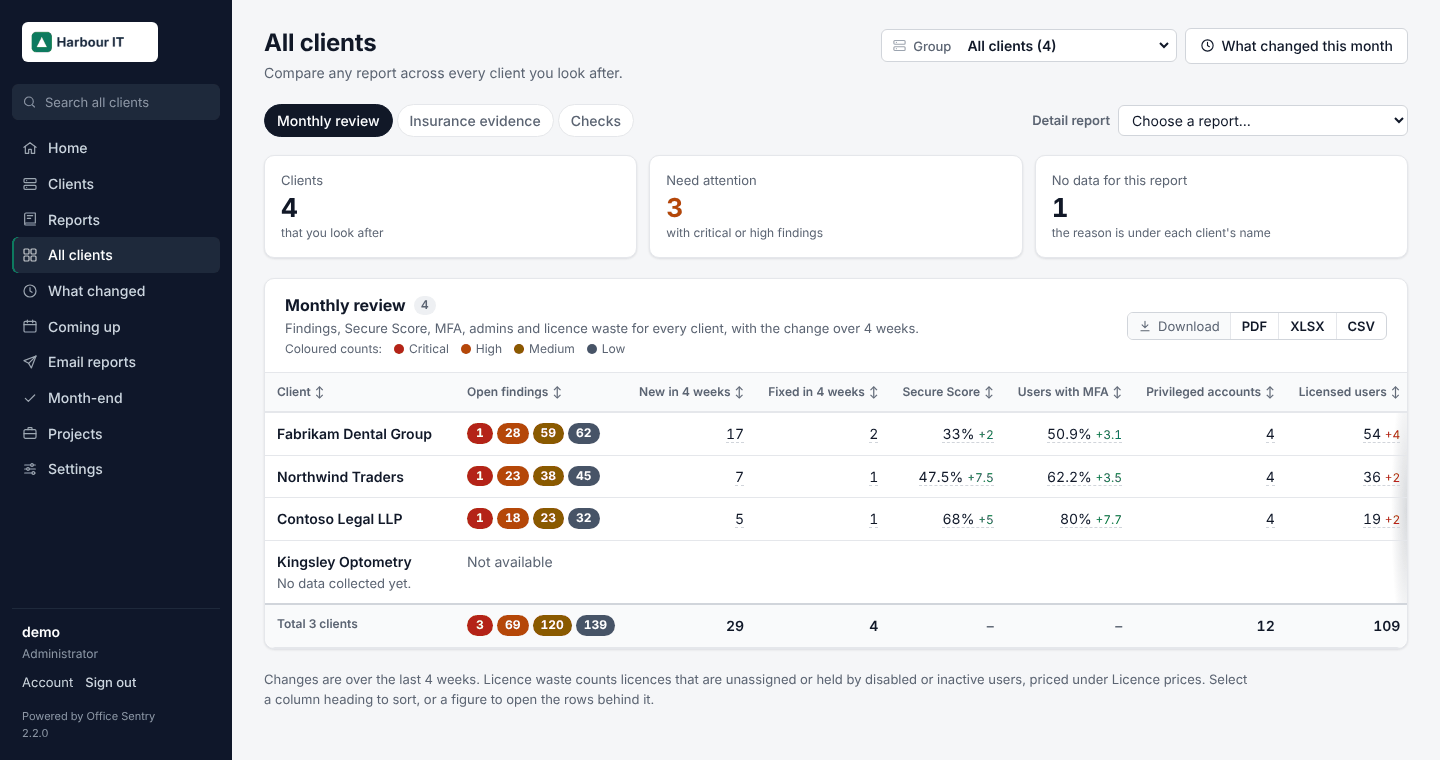
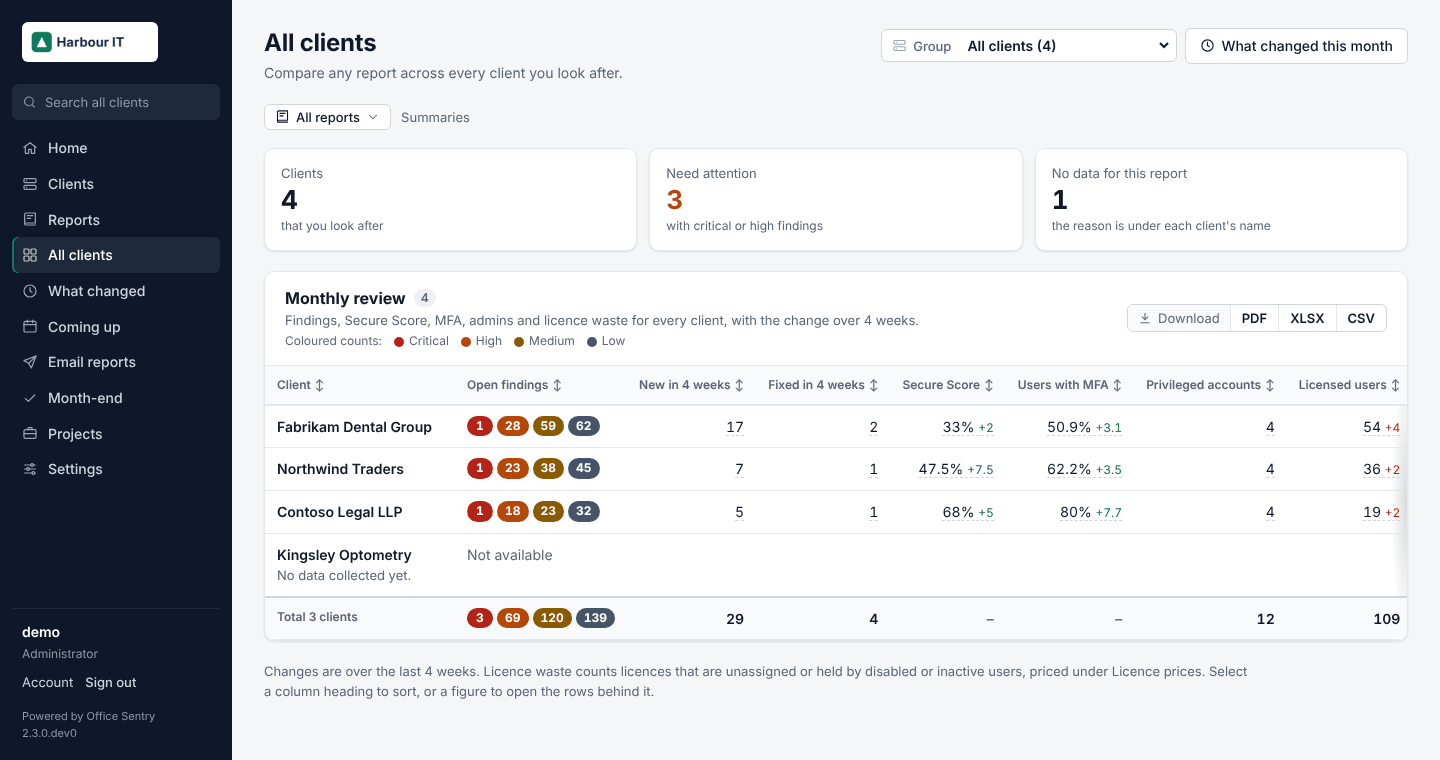
All clients opens reports from the All reports menu, and pages never scroll sideways
All clients gets the same All reports menu as a client's Reports tab (every report in columns with a
search box) instead of a drop-down list as tall as the screen, with One row per client and Every row
beside it. Hidden text inside table scroll boxes no longer widens the Checks and Projects pages, and on
phones the monthly review's buttons wrap and long addresses in History lists break. The browser tests
now fail any page wider than the window.

diff --git a/v2/officesentry/web/templates/_across.html b/v2/officesentry/web/templates/_across.html
@@ -1,8 +1,8 @@
-{#- The top of every All clients page: the summary tabs, the detail report picker, and for a detail
-    report the choice between one row per tenant and every row. key is the page's report key. -#}
+{#- The top of every All clients page: the report picker and, for a detail report, the choice between one row
+    per tenant and every row. key is the page's report key: 'review', 'evidence', 'checks' or a detail report's. -#}
 {% from "_macros.html" import icon %}
 {% from "_groups.html" import group_picker with context %}
-{% macro across_head(key, main, groups, mode='') -%}
+{% macro across_head(key, main, mode='') -%}
 <div class="page-head">
   <div>
     <h1>All clients</h1>
@@ -11,27 +11,74 @@
   <div class="actions">{{ group_picker() }}<a class="btn" href="{{ url_for('across.changes') }}">{{ icon('clock') }} What changed this month</a></div>
 </div>
 
-<div class="report-picker">
-  <nav class="subtabs m0" aria-label="Report">
-    {% for k, title in main %}
-    <a href="{{ url_for('across.rollup', key=k) }}"{% if k == key %} class="active" aria-current="page"{% endif %}>{{ title }}</a>
-    {% endfor %}
-    <a href="{{ url_for('across.checks') }}"{% if key == 'checks' %} class="active" aria-current="page"{% endif %} title="Every check's result for every client">Checks</a>
-  </nav>
-  <form method="get" action="{{ url_for('across.index') }}" class="picker-form" id="detail-picker" data-autosubmit>
-    {% if mode == 'rows' %}<input type="hidden" name="mode" value="rows">{% endif %}
-    <label for="detail-key" class="inline-label">Detail report</label>
-    <select id="detail-key" name="key">
-      <option value=""{% if key in ('review', 'evidence', 'checks') %} selected{% endif %} disabled>Choose a report…</option>
-      {% for gr in groups %}<optgroup label="{{ gr.title }}">{% for k, title, desc in gr.reports %}<option value="{{ k }}"{% if k == key %} selected{% endif %}>{{ title }}</option>{% endfor %}</optgroup>{% endfor %}
-    </select>
-    <noscript><button class="btn sm">Show</button></noscript>
-  </form>
-</div>
+<div class="across-bar">
+{{ across_picker(key, main, mode) }}
 {% if mode %}
 <nav class="subtabs across-mode" aria-label="Layout">
   <a href="{{ url_for('across.rollup', key=key) }}"{% if mode == 'tenants' %} class="active" aria-current="page"{% endif %} title="Headline figures, one row per client">One row per client</a>
   <a href="{{ url_for('across.rows_index', key=key) }}"{% if mode == 'rows' %} class="active" aria-current="page"{% endif %} title="Every row of a table from every client, to filter and download">Every row</a>
 </nav>
 {% endif %}
+</div>
+{%- endmacro %}
+
+{#- The same picker as a client's Reports tab (report_picker in _macros.html): on laptops an "All reports"
+    menu, every report in columns with a search box and the open report's area beside it; a select on phones.
+    main is the summaries this person may open; in Every row (mode 'rows') a detail report opens there too. -#}
+{% macro across_picker(key, main, mode) -%}
+{% set tips = {'review': 'Findings, Secure Score, MFA, admins and licence waste for every client',
+               'evidence': 'How far each client has the controls insurers and certifications ask about',
+               'checks': "Every check's result for every client"} %}
+{% set summaries = [] %}
+{% for k, title in main %}{% set _ = summaries.append((k, title, url_for('across.rollup', key=k), tips[k])) %}{% endfor %}
+{% if main %}{% set _ = summaries.append(('checks', 'Checks', url_for('across.checks'), tips['checks'])) %}{% endif %}
+{% set areas = [] %}
+{% set here = namespace(area='') %}
+{% for k, title, href, tip in summaries if k == key %}{% set here.area = 'Summaries' %}{% endfor %}
+{% for area in report_catalogue() if area.key != 'summaries' %}{% set entries = [] %}
+  {% for e in area.entries if e.kind == 'data' and can(entry_capability(e)) %}{% set _ = entries.append((e.key, e.title, url_for('across.rows_index' if mode == 'rows' else 'across.rollup', key=e.key), e.description, e.search)) %}{% if e.key == key %}{% set here.area = area.title %}{% endif %}{% endfor %}
+  {% if entries %}{% set _ = areas.append((area.key, area.title, entries)) %}{% endif %}
+{% endfor %}
+<nav class="report-menu" aria-label="Reports">
+  <details class="menu report-switch" id="report-switch">
+    <summary class="btn sm" title="Every report, across every client">{{ icon('library') }}<span>All reports</span>{{ icon('chevron', 'chev') }}</summary>
+    <div class="menu-panel report-panel">
+      <div class="picker-search">
+        {{ icon('search') }}<label for="report-find" class="sr-only">Find a report</label>
+        <input id="report-find" type="search" placeholder="Find a report" autocomplete="off" maxlength="100" data-report-search="report-list">
+      </div>
+      <div class="picker-list" id="report-list">
+        {% if summaries %}
+        <div class="report-group">
+          <p class="picker-label" id="picker-summaries">Summaries</p>
+          <ul aria-labelledby="picker-summaries">
+            {% for k, title, href, tip in summaries %}<li data-name="{{ (title ~ ' ' ~ tip)|lower }}"><a href="{{ href }}" title="{{ tip }}"{% if k == key %} aria-current="page"{% endif %}>{{ title }}</a></li>
+            {% endfor %}
+          </ul>
+        </div>
+        {% endif %}
+        {% for area_key, area_title, entries in areas %}
+        <div class="report-group">
+          <p class="picker-label" id="picker-{{ area_key }}">{{ area_title }}</p>
+          <ul aria-labelledby="picker-{{ area_key }}">
+            {% for k, title, href, desc, search in entries %}<li data-name="{{ search }}"><a href="{{ href }}" title="{{ desc }}"{% if k == key %} aria-current="page"{% endif %}>{{ title }}</a></li>
+            {% endfor %}
+          </ul>
+        </div>
+        {% endfor %}
+      </div>
+      <p class="no-match" hidden>No report matches. The <a href="{{ url_for('reports.overview') }}">Reports page</a> searches by job too.</p>
+    </div>
+  </details>
+  {% if here.area %}<span class="report-area">{{ here.area }}</span>{% endif %}
+</nav>
+<form method="get" action="{{ url_for('across.index') }}" class="picker-form report-menu-sm" data-autosubmit>
+  {% if mode == 'rows' %}<input type="hidden" name="mode" value="rows">{% endif %}
+  <label for="report-key">Report</label>
+  <select id="report-key" name="key">
+    {% if summaries %}<optgroup label="Summaries">{% for k, title, href, tip in summaries %}<option value="{{ k }}"{% if k == key %} selected{% endif %}>{{ title }}</option>{% endfor %}</optgroup>{% endif %}
+    {% for area_key, area_title, entries in areas %}<optgroup label="{{ area_title }}">{% for k, title, href, desc, search in entries %}<option value="{{ k }}"{% if k == key %} selected{% endif %}>{{ title }}</option>{% endfor %}</optgroup>{% endfor %}
+  </select>
+  <noscript><button class="btn sm">Show</button></noscript>
+</form>
 {%- endmacro %}

diff --git a/v2/officesentry/web/static/app.css b/v2/officesentry/web/static/app.css
@@ -78,6 +78,9 @@ main { max-width: 1600px; margin: 0 auto; padding: 28px 32px 64px; }
 .grid-3 { display: grid; grid-template-columns: repeat(3, minmax(0, 1fr)); gap: var(--space-4); }
 .stack > * + * { margin-top: var(--space-3); }
 .scroll-x { overflow-x: auto; }
+/* A scroll box is positioned so it also clips visually hidden text (.sr-only, position: absolute) in what
+   it scrolls: otherwise that text stays where the table put it and widens the whole page. */
+:is(.scroll-x, .table-scroll, .chart-scroll) { position: relative; }
 
 /* -- Stat tiles ------------------------------------------------------------ */
 .tiles { display: grid; grid-template-columns: repeat(auto-fit, minmax(150px, 1fr)); gap: var(--space-3); margin-bottom: var(--space-5); }
@@ -853,6 +856,7 @@ a.tile.link:hover .go { opacity: 1; color: var(--accent); transform: translateX(
 .timeline li.tone-ok { border-left-color: var(--ok); }
 .timeline .when { color: var(--muted); font-size: var(--fs-sm); white-space: nowrap; }
 .timeline .area { font-weight: 600; color: var(--text); }
+.timeline .what { min-width: 0; overflow-wrap: anywhere; } /* a long address breaks rather than widening the page */
 #attention .list > li { align-items: baseline; }
 @media (max-width: 640px) {
   .person-head .person-actions { width: 100%; }
@@ -1060,8 +1064,11 @@ textarea.copy-text { font-size: var(--fs-sm); resize: vertical; margin: var(--sp
   .search-group .list > li { flex-direction: column; gap: var(--space-1); }
   .search-group .list .pill { min-width: 0; }
 }
-/* All tenants: one row per tenant or every row, totals, and the checks matrix */
-.across-mode { margin: -4px 0 16px; }
+/* All clients: the report picker (_across.html) with one row per client or every row beside it, totals,
+   and the checks matrix. */
+.across-bar { display: flex; align-items: center; justify-content: space-between; gap: var(--space-2) var(--space-3); flex-wrap: wrap; margin-bottom: 18px; }
+.across-bar > :is(.report-menu, .report-menu-sm, .across-mode) { margin: 0; }
+@media (max-width: 960px) { .across-bar .report-menu-sm { flex: 1 1 100%; } }
 .jump a.active { color: var(--text); font-weight: 600; }
 tfoot .total-row th, tfoot .total-row td { border-top: 2px solid var(--border-strong); background: var(--surface-2); font-weight: 600; }
 tfoot .total-row th { text-align: left; }
@@ -1479,7 +1486,7 @@ details.sources-fine[open] > summary { border-bottom: 1px solid var(--border); }
 @media (min-width: 1100px) {
   .parts .card.part .kv { grid-template-columns: max-content minmax(0, 1fr) max-content minmax(0, 1fr); column-gap: var(--space-8); }
 }
-.parts .timeline li { grid-template-columns: 120px 1fr; }
+@media (min-width: 641px) { .parts .timeline li { grid-template-columns: 120px minmax(0, 1fr); } }
 details.part > summary.card-head { color: var(--text); font-weight: inherit; }
 details.part > summary.card-head h2 { display: flex; align-items: center; gap: var(--space-2); }
 details.part > summary.card-head h2::before { content: ""; width: 7px; height: 7px; border-right: 2px solid var(--muted); border-bottom: 2px solid var(--muted); transform: rotate(-45deg); transition: transform .15s; margin-right: var(--space-0-5); }

diff --git a/v2/officesentry/web/static/report.css b/v2/officesentry/web/static/report.css
@@ -288,8 +288,10 @@ td .sub { display: block; color: var(--muted); font-size: .86em; }
   .content { padding: 4px 18px 28px; }
   .cover-band, .cover-meta, .cover-status { padding-left: 18px; padding-right: 18px; }
   .cover-meta { grid-template-columns: repeat(2, minmax(0, 1fr)); }
-  .toolbar { gap: var(--space-2); padding: var(--space-2-5) var(--space-3); }
-  .toolbar .back { font-size: .85rem; overflow: hidden; text-overflow: ellipsis; white-space: nowrap; min-width: 0; flex: 1; }
+  /* The back link gets its own line and the buttons wrap under it, so none runs off the screen; the bar
+     scrolls away with the page rather than covering a third of it. */
+  .toolbar { position: static; flex-wrap: wrap; gap: var(--space-2); padding: var(--space-2-5) var(--space-3); }
+  .toolbar .back { font-size: .85rem; overflow: hidden; text-overflow: ellipsis; white-space: nowrap; min-width: 0; flex: 1 1 100%; }
   .toolbar .spacer { display: none; }
   .button { padding: var(--space-1-5) var(--space-2-5); font-size: .82rem; }
   .button .wide { display: none; }

diff --git a/v2/officesentry/web/templates/rollup.html b/v2/officesentry/web/templates/rollup.html
@@ -25,7 +25,7 @@
 {%- else %}{{ url_for('reports.data_report', tenant_id=t.id, key=link[0]) }}{{ link[1] }}{% endif %}
 {%- endmacro %}
 {% block content %}
-{{ across_head(rollup.key, main, groups, 'tenants' if rollup.tenant_link == 'data' else '') }}
+{{ across_head(rollup.key, main, 'tenants' if rollup.tenant_link == 'data' else '') }}
 
 {% if not rollup.rows %}
 <div class="card empty">

diff --git a/v2/officesentry/web/templates/check_matrix.html b/v2/officesentry/web/templates/check_matrix.html
@@ -21,7 +21,7 @@
 {%- else %}<span class="muted" title="{{ c.summary }}"><span class="chk unavailable"></span> Not checked</span>{% endif %}
 {%- endmacro %}
 {% block content %}
-{{ across_head('checks', main, groups) }}
+{{ across_head('checks', main) }}
 
 {% if not matrix.rows %}
 <div class="card empty">

diff --git a/v2/officesentry/web/templates/rollup_rows.html b/v2/officesentry/web/templates/rollup_rows.html
@@ -34,7 +34,7 @@
 </details>
 {%- endmacro %}
 {% block content %}
-{{ across_head(key, main, groups, 'rows') }}
+{{ across_head(key, main, 'rows') }}
 
 <div class="toolbar report-title">
   <div>

diff --git a/v2/tests/test_rollups.py b/v2/tests/test_rollups.py
@@ -4,6 +4,7 @@ from __future__ import annotations
 
 import csv
 import io
+import re
 from datetime import UTC, datetime, timedelta
 
 import pytest
@@ -16,6 +17,7 @@ from officesentry.snapshot import TenantSnapshot
 from tests.conftest import login, make_user
 from tests.seed import seed_tenant
 from tests.test_collectors import USERS
+from tests.test_roles import role_user
 
 ISO = "%Y-%m-%dT%H:%M:%SZ"
 
@@ -121,6 +123,44 @@ def test_rollup_pages_and_downloads(client, db, two_tenants):
     assert wb.sheetnames[0] == "Summary" and wb["Summary"]["A2"].value == "All clients"
     assert wb.worksheets[1]["A1"].value == "Client"
     assert db.execute("SELECT COUNT(*) FROM audit_log WHERE action = 'rollup_downloaded'").fetchone()[0] == 2
+
+
+def _picker(page: str) -> str:
+    pickers = re.findall(r'<nav class="report-menu"[^>]*>(.*?)</nav>', page, re.S)
+    assert len(pickers) == 1
+    return pickers[0]
+
+
+def test_all_clients_picks_reports_from_the_all_reports_menu(client, db, two_tenants):
+    """The same picker as a client's Reports tab: the summaries and every detail report, the open one marked
+    and its area beside the menu; Every row opens a report's rows; phones get the list as a select."""
+    make_user(db, "admin")
+    login(client, "admin")
+    page = client.get("/across/review").get_data(as_text=True)
+    picker = _picker(page)
+    hrefs = re.findall(r'href="(/across/[^"]+)"', picker)
+    assert hrefs[:3] == ["/across/review", "/across/evidence", "/across/checks"]
+    assert set(hrefs[3:]) == {f"/across/{key}" for key in data_reports.REPORTS}
+    assert len(hrefs) == len(data_reports.REPORTS) + 3
+    assert re.findall(r'aria-current="page">([^<]+)<', picker) == ["Monthly review"]
+    assert '<span class="report-area">Summaries</span>' in picker and 'data-report-search="report-list"' in picker
+    assert '<option value="checks"' in page and '<optgroup label="Identity and access">' in page
+    assert client.get("/across?key=checks").headers["Location"].endswith("/across/checks")
+
+    rows = _picker(client.get("/across/mfa/rows", follow_redirects=True).get_data(as_text=True))
+    assert 'href="/across/inbox-rules/rows"' in rows and 'href="/across/review"' in rows
+    assert re.findall(r'aria-current="page">([^<]+)<', rows) == ["MFA coverage"]
+    assert '<span class="report-area">Identity and access</span>' in rows
+
+
+def test_all_clients_picker_lists_only_what_the_role_may_open(client, db, two_tenants):
+    alpha, _ = two_tenants
+    role_user(db, "desk", "first_line", tenants=[alpha])  # reports on people, email and devices only
+    login(client, "desk")
+    picker = _picker(client.get("/across/mfa").get_data(as_text=True))
+    assert "Summaries" not in picker and "/across/checks" not in picker and "/across/review" not in picker
+    assert "/across/mailboxes" in picker and "/across/sharepoint-storage" not in picker
+    assert "/across/checks" not in client.get("/across?key=checks").headers["Location"]
 
 
 def test_rollups_only_show_granted_tenants(client, db, two_tenants):

diff --git a/v2/tests/browser/test_pages.py b/v2/tests/browser/test_pages.py
@@ -1,5 +1,6 @@
 """Every page in pages.py, at a laptop and a phone width, light and dark: a screenshot compared with its
-baseline in baselines/, and an axe-core accessibility check at the laptop width.
+baseline in baselines/, a check that nothing makes the page wider than the window, and an axe-core
+accessibility check at the laptop width.
 
 Baselines are 256-colour PNGs (a few MB for all of them). A capture is mapped onto its baseline's colours
 before comparing, so the same page compares exactly; it fails when more than MAX_CHANGED of its pixels
@@ -46,6 +47,9 @@ def test_page(spec, viewport, theme, site, contexts, request):
         page.evaluate("document.fonts.ready")
         problems = []
         name = f"{spec.name}-{viewport}-{theme}"
+        problem = _check_width(page)
+        if problem:
+            problems.append(problem)
         problem = _check_screenshot(page, name, viewport, spec, request.config)
         if problem:
             problems.append(problem)
@@ -54,6 +58,31 @@ def test_page(spec, viewport, theme, site, contexts, request):
         assert not problems, f"{name}:\n" + "\n".join(problems)
     finally:
         page.close()
+
+
+# The page's width against the window's and, when it's wider, the smallest thing past the edge: usually the
+# culprit, such as hidden text a scroll box doesn't clip or a word that can't wrap.
+WIDTH_JS = """() => {
+  const root = document.documentElement, width = root.clientWidth;
+  if (root.scrollWidth <= width) return null;
+  let culprit = null, area = Infinity;
+  for (const el of document.body.querySelectorAll('*')) {
+    const r = el.getBoundingClientRect();
+    const size = r.width * r.height;
+    if (r.right > width + 1 && size > 0 && size < area) { culprit = el; area = size; }
+  }
+  const name = culprit
+    ? culprit.tagName.toLowerCase() + (culprit.id ? '#' + culprit.id : '')
+      + [...culprit.classList].map(c => '.' + c).join('') + ' "' + culprit.textContent.trim().slice(0, 40) + '"'
+    : 'text that runs past its box';
+  return root.scrollWidth + 'px wide in a ' + width + 'px window, past the edge: ' + name;
+}"""
+
+
+def _check_width(page) -> str | None:
+    """Pages never scroll sideways: a wide table scrolls in its own box."""
+    over = page.evaluate(WIDTH_JS)
+    return f"wider than the window: {over}" if over else None
 
 
 def _check_screenshot(page, name: str, viewport: str, spec, config) -> str | None:

diff --git a/v2/officesentry/web/across.py b/v2/officesentry/web/across.py
@@ -27,7 +27,7 @@ from . import as_of
 from .access import can, need_also, needs, require, tenant_or_404
 from .groups import group_aware, scope, scoped_tenants
 from .printing import pdf_response
-from .reports import report_capability, report_groups
+from .reports import report_capability
 from .saved_views import MAX_VIEWS
 from .saved_views import store as store_view
 
@@ -66,6 +66,8 @@ def index():
     key = request.args.get("key", "")
     if request.args.get("mode") == "rows" and key in data_reports.REPORTS:
         return redirect(url_for("across.rows_index", key=key))
+    if key == "checks" and can("reports.security"):  # the picker's select on phones
+        return redirect(url_for("across.checks"))
     available = _available()
     if key not in dict(available):
         if not available:
@@ -91,8 +93,8 @@ def _rollup_or_404(key: str):
 
 
 def _picker() -> dict:
-    """What the All tenants pages share: the summary tabs and the detail report picker."""
-    return {"main": _available()[:2] if can("reports.security") else [], "groups": report_groups()}
+    """What the All clients report picker needs beyond the catalogue: the summaries this person may open."""
+    return {"main": _available()[:2] if can("reports.security") else []}
 
 
 @bp.get("/across/<key>")

diff --git a/v2/officesentry/__init__.py b/v2/officesentry/__init__.py
@@ -1,3 +1,3 @@
 """Office Sentry v2: read-only Microsoft 365 reporting for MSPs."""
 
-__version__ = "2.2.0"
+__version__ = "2.3.0.dev0"

diff --git a/CHANGELOG.md b/CHANGELOG.md
@@ -9,6 +9,20 @@ versions follow [semantic versioning](https://semver.org). How to update: [v2/DE
 "Updating"](v2/DEPLOY.md#updating). How releases are made: [CONTRIBUTING.md,
 "Releases"](CONTRIBUTING.md#releases).
 
+## [2.3.0] - Unreleased
+
+### Changed
+
+- **All clients opens reports from the All reports menu**, the same one as a client's Reports tab: every
+  report in columns with a search box, Monthly review, Insurance evidence and Checks included, instead of a
+  drop-down list as tall as the screen. One row per client and Every row sit beside it; phones keep a list.
+
+### Fixed
+
+- Pages no longer scroll sideways past the edge of the window: the All clients Checks page and Projects
+  (hidden text in their tables widened the page), and on phones the monthly review's buttons and the
+  History list on person, mailbox, group and site pages, where a long address now wraps.
+
 ## [2.2.0] - 2026-10-11
 
 Who can open what, and evidence for more than Cyber Essentials. The headlines: Site access, Site
@@ -718,6 +732,7 @@ first, then upgrades it on start. New installs start with an empty database.
   downloadable.
 - Dependencies are installed from a hash-pinned lock file, and base images are pinned by digest.
 
+[2.3.0]: https://github.com/JackD99/OfficeSentry/compare/v2.2.0...HEAD
 [2.2.0]: https://github.com/JackD99/OfficeSentry/compare/v2.1.0...v2.2.0
 [2.1.0]: https://github.com/JackD99/OfficeSentry/compare/v2.0.0...v2.1.0
 [2.0.0]: https://github.com/JackD99/OfficeSentry/releases/tag/v2.0.0

diff --git a/v2/CLAUDE.md b/v2/CLAUDE.md
@@ -441,7 +441,7 @@ turning each step's `target` into a link.
   (`web/styleguide.py`). A new shared component or state goes there too.
 - `tests/browser` (`pytest tests/browser --ui`, in the pinned Playwright image;
   see its README) screenshots about 34 pages at laptop and phone widths, light
-  and dark, against baselines, and runs axe-core. CI runs it
+  and dark, against baselines, fails any page wider than the window, and runs axe-core. CI runs it
   (`.github/workflows/ui.yml`) on PRs that touch templates or CSS; refresh the
   baselines with `--update` when a change is meant, and look at them.
 - Admin settings are one sidebar entry. A new settings page goes in `SETTINGS`
@@ -477,6 +477,8 @@ turning each step's `target` into a link.
   Custom reports for staff) are in `report_picker()`, an "All reports" menu above the report (every report
   in columns with a search box, the report's area beside it) and a select on phones, so the report gets the
   page's width; a page that uses it wraps itself in `.report-layout` with the report in `.report-main`.
+  All clients (`_across.html`, `across_picker()`) has the same menu, listing the summaries, Checks and every
+  detail report and linking to their All clients pages.
 - Show times with the `ts()` macro or the `ago`/`when`/`day` filters, never raw
   ISO strings. Licence flags go through the `capability` filter. Python code
   outside `web/` (reports, emails) uses the same functions from
